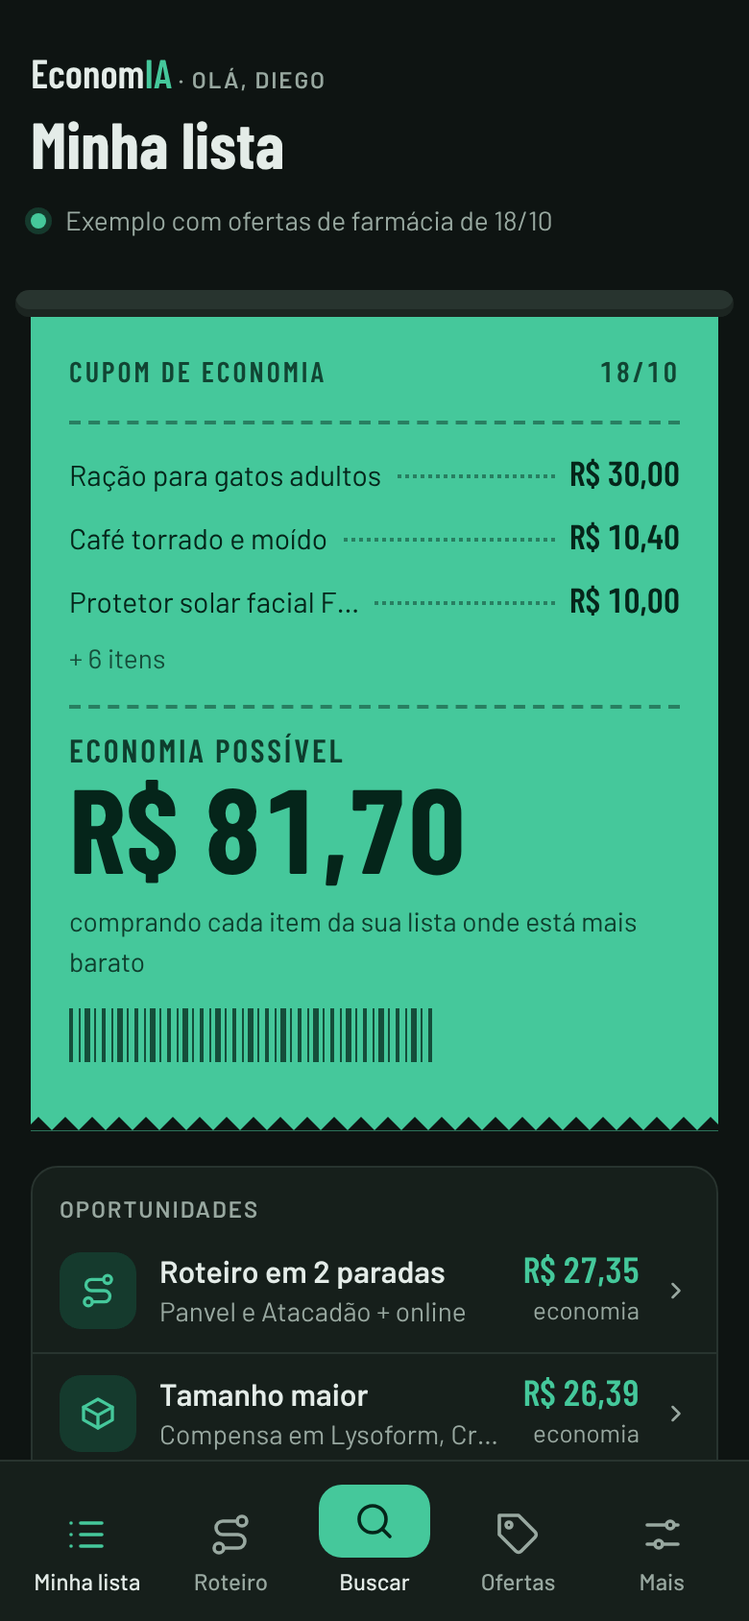
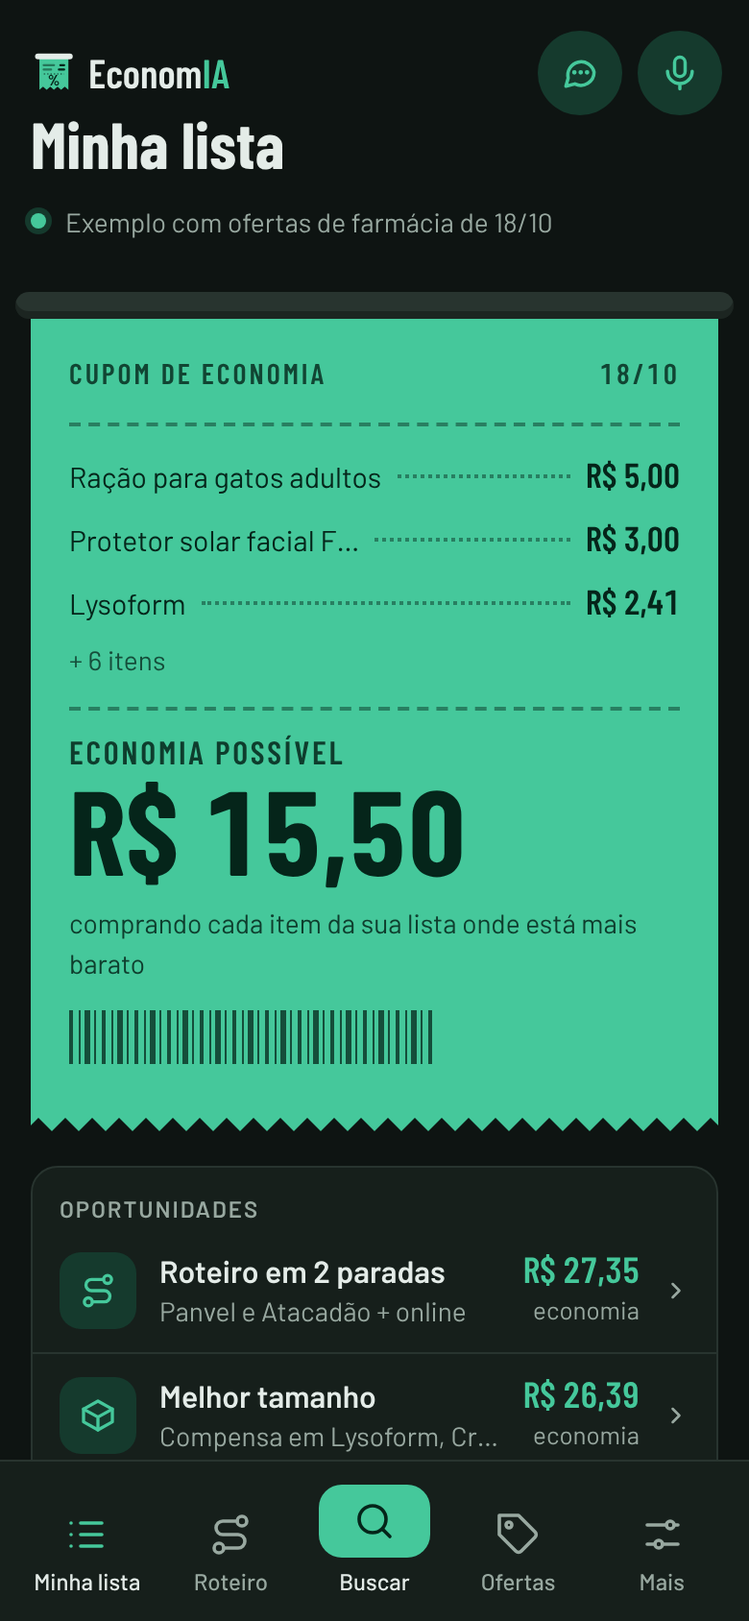
EconomIA: README, manual e prints atualizados
- README: "O que tem" com as funções novas (código de barras, Quis dizer,
  histórico, sua escolha e similares, Testar agora, Conversa, integrações
  opcionais), menu certo da IA, estrutura com a fonte da página, tests/ e
  tools/, e uma seção só de desenvolvimento.
- DOCS: Usar IA não desliga o Buscar; passo a passo da busca igual ao de
  Mais › Lojas; seções Lojas (abas, de onde vem o preço, sem localização,
  loja que não apareceu) e Brave Search; Buscar este item e Procurar.
- docs/*.png refeitos com a tela de hoje (tools/prints_readme.py, com o
  exemplo embutido, sem nome de ninguém).

Claude-Session: https://claude.ai/code/session_019b4houP2YyLE6hAAt79Mdj

diff --git a/tools/prints_readme.py b/tools/prints_readme.py
@@ -1,0 +1,105 @@
+#!/usr/bin/env python3
+"""Refaz as imagens do README (docs/inicio.png, lista.png, roteiro.png e ofertas.png).
+
+Abre a página do add-on (economia/app/www/index.html) num servidor local em porta livre, sem o add-on: ela roda com
+o exemplo embutido (nenhum dado pessoal). O relógio fica parado no dia do exemplo (18/10, 10h) e o aviso "Exemplo"
+some da tela. Celular de 390 x 844 com densidade 2 (PNG de 780 x 1688), tema escuro.
+
+    python3 tools/prints_readme.py           grava em docs/
+    python3 tools/prints_readme.py /tmp/x    grava em outra pasta (para conferir antes)
+
+Precisa do Playwright: pip install playwright && python3 -m playwright install chromium
+"""
+import datetime
+import functools
+import http.server
+import os
+import struct
+import sys
+import threading
+
+from playwright.sync_api import sync_playwright
+
+RAIZ = os.path.dirname(os.path.dirname(os.path.abspath(__file__)))
+WWW = os.path.join(RAIZ, "economia", "app", "www")
+DIA_DO_EXEMPLO = datetime.datetime(2026, 10, 18, 10, 0, tzinfo=datetime.timezone(datetime.timedelta(hours=-3)))
+LARGURA, ALTURA, DENSIDADE = 390, 844, 2
+
+
+class Pagina(http.server.SimpleHTTPRequestHandler):
+    def log_message(self, *a):
+        pass
+
+
+def calma(pg):
+    """Espera as animações (o cupom saindo da impressora, a troca de tela) terminarem."""
+    pg.wait_for_function("document.getAnimations().every(a => a.playState !== 'running'"
+                         " || (a.effect && a.effect.getTiming().iterations === Infinity))", timeout=15000)
+    pg.wait_for_timeout(300)
+
+
+def rola_ate(pg, seletor, folga=12):
+    y = pg.locator(seletor).first.evaluate("e => e.getBoundingClientRect().top + scrollY")
+    pg.evaluate("y => scrollTo(0, y)", max(0, y - folga))
+    calma(pg)
+
+
+def tamanho_png(caminho):
+    with open(caminho, "rb") as f:
+        cab = f.read(24)
+    return struct.unpack(">II", cab[16:24])
+
+
+def main():
+    saida = os.path.abspath(sys.argv[1]) if len(sys.argv) > 1 else os.path.join(RAIZ, "docs")
+    os.makedirs(saida, exist_ok=True)
+    srv = http.server.ThreadingHTTPServer(("127.0.0.1", 0), functools.partial(Pagina, directory=WWW))
+    threading.Thread(target=srv.serve_forever, daemon=True).start()
+    url = f"http://127.0.0.1:{srv.server_address[1]}/index.html"
+    erros = []
+    with sync_playwright() as p:
+        nav = p.chromium.launch()
+        ctx = nav.new_context(viewport={"width": LARGURA, "height": ALTURA}, device_scale_factor=DENSIDADE,
+                              color_scheme="dark", has_touch=True, locale="pt-BR", timezone_id="America/Sao_Paulo")
+        pg = ctx.new_page()
+        pg.on("pageerror", lambda e: erros.append(str(e)))
+        pg.clock.set_fixed_time(DIA_DO_EXEMPLO)
+        pg.goto(url)
+        pg.wait_for_function("document.getElementById('syncText').textContent.indexOf('Carregando') < 0")
+        pg.add_style_tag(content="#banner{display:none!important}")
+        calma(pg)
+
+        def foto(nome):
+            caminho = os.path.join(saida, nome + ".png")
+            pg.screenshot(path=caminho)
+            if tamanho_png(caminho) != (LARGURA * DENSIDADE, ALTURA * DENSIDADE):
+                erros.append(f"{nome}.png com tamanho {tamanho_png(caminho)}")
+            print("ok", caminho)
+
+        # Minha lista, no alto: o cupom de economia e as oportunidades
+        foto("inicio")
+        # um item da lista: a melhor compra, os outros preços com o ✓ e as ações
+        lyso = pg.locator("#wish > li", has_text="Lysoform").first
+        lyso.wait_for()
+        rola_ate(pg, "#wish > li:has-text('Lysoform')")
+        foto("lista")
+        # Roteiro: paradas, total e o que comprar em cada loja
+        pg.click(".tabbar [data-view=roteiro]")
+        calma(pg)
+        rola_ate(pg, "#v-roteiro .sec-meta", folga=8)
+        foto("roteiro")
+        # Ofertas dos mercados perto de casa
+        pg.click(".tabbar [data-view=ofertas]")
+        calma(pg)
+        pg.locator("#cats button", has_text="Mercados").click()
+        calma(pg)
+        rola_ate(pg, "#v-ofertas .panel:has(#h-ofertas)")
+        foto("ofertas")
+        nav.close()
+    srv.shutdown()
+    if erros:
+        raise SystemExit("Erros na página: " + "; ".join(erros))
+
+
+if __name__ == "__main__":
+    main()

diff --git a/economia/DOCS.md b/economia/DOCS.md
@@ -4,7 +4,7 @@ Cupons, ofertas e a sua lista de compras nas farmácias, mercados e pet shops pe
 
 ## Antes de começar
 
-O EconomIA usa a IA do próprio Home Assistant (Anthropic Claude, OpenAI, Google Gemini...). Escolha qual usar em **Mais › Integrações › IA do Home Assistant** e toque em **Verificar de novo** para testar. A chave **Usar IA**, no mesmo lugar, desliga tudo o que usa IA (Buscar, leitura de fotos e mensagens, cupons por print e Falar), para todos os aparelhos.
+O EconomIA usa a IA do próprio Home Assistant (Anthropic Claude, OpenAI, Google Gemini...). Escolha qual usar em **Mais › Integrações › IA do Home Assistant** e toque em **Verificar de novo** para testar. A chave **Usar IA**, no mesmo lugar, desliga tudo o que usa IA (leitura de fotos e mensagens, cupons e encartes por print, Falar e Conversa), para todos os aparelhos. O **Buscar** continua, só com o que não gasta IA.
 
 - **Para buscar ofertas**, a IA precisa de busca na web:
   - **Anthropic**: ligue a busca na web nas opções da tarefa de IA.
@@ -15,14 +15,14 @@ O EconomIA usa a IA do próprio Home Assistant (Anthropic Claude, OpenAI, Google
 
 1. Abra **EconomIA** no menu lateral do Home Assistant.
 2. Em **Mais › Casa**, preencha o CEP e a distância e toque em **Encontrar lojas**: o app registra as lojas perto de casa pelo mapa e testa, sem IA, se dá para tirar preço de cada uma (em Mais › Lojas, cada loja mostra o resultado e o passo a passo em "Como foi testado", com **Testar agora** para testar de novo só aquela, inclusive as online; **Só sem fonte de preço** mostra só as que faltam). Preencha também quem mora na casa (incluindo quantos pets), restrições, interesses e os dias em que você costuma comprar.
-3. Em **Minha lista**, adicione o que você compra sempre, pelo campo do topo, por **Escolher fotos**, por **Colar mensagem** ou por **Falar**. Toque em **Comprei hoje** quando comprar: o painel aprende de quanto em quanto tempo cada coisa acaba. Em cada item, o ✓ ao lado de uma loja ou de um tamanho fixa **Sua escolha** (mesmo que não seja a mais barata), que vale também no Roteiro. A "economia de" de cada item é em relação à segunda loja mais barata. **Limpar lista** tira tudo da lista, com opção de desfazer. O que sai da lista (por remover ou limpar) fica no **Histórico**, o botão ao lado do Adicionar: do que você mais compra para o que menos compra, e um toque põe de volta com as compras de antes. Escrever no campo filtra o histórico.
-4. Toque em **Buscar**, no centro do menu de baixo. A busca leva alguns minutos e você pode continuar usando o painel.
+3. Em **Minha lista**, adicione o que você compra sempre, pelo campo do topo, pelo **código de barras**, por **Escolher fotos**, por **Colar mensagem** ou por **Falar**. Toque em **Comprei hoje** quando comprar: o painel aprende de quanto em quanto tempo cada coisa acaba. Em cada item, o ✓ ao lado de uma loja ou de um tamanho fixa **Sua escolha** (mesmo que não seja a mais barata), que vale também no Roteiro. A "economia de" de cada item é em relação à segunda loja mais barata. Toque num preço para abrir o produto na loja (sem link, o botão **Procurar** abre a busca da loja). **Limpar lista** tira tudo da lista, com opção de desfazer. O que sai da lista (por remover ou limpar) fica no **Histórico**, o botão ao lado do Adicionar: do que você mais compra para o que menos compra, e um toque põe de volta com as compras de antes. Escrever no campo filtra o histórico.
+4. Toque em **Buscar**, no centro do menu de baixo. A busca leva alguns minutos e você pode continuar usando o painel. Item que ficou sem preço tem **Buscar este item**, que procura só ele.
 5. Em **Ofertas**, use **Não mostrar** em qualquer oferta que não faça sentido para você. Cada oferta tem um link para a fonte.
-6. Em **Mais › Lojas**, desmarque as que não quer acompanhar ou adicione uma que não apareceu.
+6. Em **Mais › Lojas**, desmarque as que não quer acompanhar ou adicione uma que não apareceu (veja **Lojas**, abaixo).
 
 ## Mais, em abas
 
-Como nos outros apps (InventarIA, GerencIA, ResolvIA e CronologIA), **Mais** tem abas presas no alto: **Casa** (CEP, quem mora, rotina, restrições, interesses e o que nunca mostrar), **Lojas** (lojas perto de casa, com o clube de cada uma e o Encontrar lojas, cupons do app e compras online), **Integrações** (IA do Home Assistant, Usar IA, Falar, Uso da IA, Lista do Home Assistant e Sensores no Home Assistant), **Dados** (Exportar, Importar, Versões anteriores e onde ficam os dados), **Aparência** (tema e cor do app) e **Opções** (as etapas extras da busca).
+Como nos outros apps (InventarIA, GerencIA, ResolvIA e CronologIA), **Mais** tem abas presas no alto: **Casa** (CEP, quem mora, rotina, restrições, interesses e o que nunca mostrar), **Lojas** (lojas perto de casa, com o clube de cada uma, Encontrar lojas e Testar agora; cupons do app; compras online; e como o EconomIA busca os preços), **Integrações** (IA do Home Assistant, com Usar IA e Para falar; Shopee Afiliados, Google Places, Brave Search, Mercado Livre e Instagram; Uso da IA, Lista do Home Assistant e Sensores no Home Assistant), **Dados** (Exportar, Importar, Versões anteriores e onde ficam os dados), **Aparência** (tema e cor do app) e **Opções** (as etapas da busca que dá para desligar).
 
 ## Falar
 
@@ -94,7 +94,7 @@ Toque em **Similares** no item para ver até 3 produtos parecidos, da mesma seç
 
 Em **Mais › Lojas**:
 
-- Em Mais › Lojas, cada loja tem o botão do clube: o nome do clube quando o EconomIA conhece (como Amigo Giassi), **Tem clube** quando a busca achou um, ou **Adicionar clube**. Toque nele nas lojas em que você é cadastrado (quase sempre é só o CPF no caixa) e ele vira **Sou do clube**. O preço de clube dessas lojas passa a valer na lista, no roteiro e nas ofertas, e a busca com IA procura o preço de membro delas. Nas outras, o preço de clube aparece marcado e o EconomIA avisa quando valeria a pena entrar no clube. Clube só de pontos ou cartão (como o Clube Angeloni) não muda o preço da prateleira e não aparece. O preço de clube chega pela IA (busca, encarte ou print dos cupons): com a IA desligada, a tela avisa.
+- Cada loja tem o botão do clube: o nome do clube quando o EconomIA conhece (como Amigo Giassi), **Tem clube** quando a busca achou um, ou **Adicionar clube**. Toque nele nas lojas em que você é cadastrado (quase sempre é só o CPF no caixa) e ele vira **Sou do clube**. O preço de clube dessas lojas passa a valer na lista, no roteiro e nas ofertas, e a busca com IA procura o preço de membro delas. Nas outras, o preço de clube aparece marcado e o EconomIA avisa quando valeria a pena entrar no clube. Clube só de pontos ou cartão (como o Clube Angeloni) não muda o preço da prateleira e não aparece. O preço de clube chega pela IA (busca, encarte ou print dos cupons): com a IA desligada, a tela avisa.
 - Em **Cupons do app**, escolha prints da carteira de cupons do app da loja (Bem Panvel, Raia, Meu Atacadão...) e toque em **Digitalizar com IA**. Confira a loja de cada cupom e guarde: eles aparecem em Ofertas como **Seu cupom** e na abertura quando estiverem perto de vencer.
 
 O EconomIA não entra na sua conta das lojas: esses apps não têm acesso aberto e pedem código por SMS.
@@ -103,9 +103,9 @@ O EconomIA não entra na sua conta das lojas: esses apps não têm acesso aberto
 
 A busca na web lê texto; muitos mercados do bairro publicam as ofertas como **imagem de encarte** no site. Por isso:
 
-- A busca procura também mercadinhos e lojas independentes do raio. Se achar o site de uma loja sem nenhum preço, o EconomIA abre o site, baixa o encarte e a IA de fotos lê os preços (até 2 lojas por busca).
+- A busca procura também mercadinhos e lojas independentes perto de casa. Se achar o site de uma loja sem nenhum preço, o EconomIA abre o site, baixa o encarte e a IA de fotos lê os preços (até 2 lojas por busca).
 - Loja que continua sem preço aparece com o selo **Sem preços** em Mais › Lojas e um aviso nas Ofertas. Toque em **Adicionar site de ofertas** e cole o endereço da página do encarte (por exemplo `mercadosalles.com.br/ofertas`): a partir da próxima busca, o encarte é lido sempre.
-- Também dá para informar o site ao **Adicionar loja**.
+- Também dá para informar o site ao adicionar uma loja que não apareceu, no fim de Mais › Lojas.
 - Mercado sem site de ofertas (Koch, Komprão, Atacadão): nas Ofertas, toque em **Encarte ou print de preços**, escolha as fotos ou prints do encarte (até 8: do WhatsApp, do Tiendeo, do app da loja ou da gôndola), diga de qual loja é e toque em **Ler com IA**. Os preços valem até a próxima busca.
 
 As ofertas de encarte aparecem com o rótulo "Encarte" e a validade, e os preços entram na comparação da lista e no roteiro.
@@ -114,13 +114,17 @@ As ofertas de encarte aparecem com o rótulo "Encarte" e a validade, e os preço
 
 A busca começa pelo que não gasta IA e só chama a IA para o que faltar (o passo a passo também está no fim de Mais › Lojas):
 
-1. **Lojas do raio, pelo mapa.** A localização da zona Casa do Home Assistant e o OpenStreetMap dizem quais farmácias, mercados e pet shops existem no raio, com endereço e distância certos (de rede, a filial mais perto). Com uma chave do Google Places em Mais › Integrações, entra também o Google Maps, que tem as lojas pequenas e o site de cada uma. Loja pequena cujo site mostra os produtos com preço na própria página tem o preço lido dessa página, sem IA. Atualiza uma vez por semana e quando você toca em Encontrar lojas.
-2. **Site das lojas.** O site de cada mercado cadastrado ou achado na busca é testado uma vez por semana. Se a loja usa VTEX e o robots.txt permite, o preço vem direto da loja que atende o seu CEP (Giassi, Angeloni e outros). Se o site não deixa programas usarem a busca, mas libera as páginas de produto (como o Bistek), o EconomIA baixa uma vez por dia a lista de produtos que a loja publica, acha os itens da sua lista pelo nome e lê o preço na página de cada produto. Esse é o preço padrão do site, que pode variar de loja para loja. O EconomIA não dribla bloqueio de site.
-3. **Shopee**, pela Open API do Shopee Afiliados, se você ligou em Mais › Integrações.
-4. **Folheto da semana** das lojas que você acompanha e que não têm preço pelo site (veja abaixo).
-5. **IA**: busca na web com a lista de lojas do mapa, para ofertas, cupons e os preços que faltam, avisada das lojas que já têm preço.
+1. **Lojas perto de casa, pelo mapa.** A localização da zona Casa do Home Assistant e o OpenStreetMap dizem quais farmácias, mercados e pet shops existem perto, com endereço e distância certos (de rede, a filial mais perto). Com uma chave do Google Places em Mais › Integrações, entra também o Google Maps, que tem as lojas pequenas e o site de cada uma. Atualiza uma vez por semana e quando você toca em Encontrar lojas.
+2. **Site das lojas sem site.** Pelo Brave Search (com chave, em Mais › Integrações) e, com a IA ligada, pela busca na web da IA. Uma vez por mês.
+3. **Site da loja.** O site de cada loja cadastrada ou achada na busca é testado uma vez por semana. Se a loja usa VTEX e o robots.txt permite, o preço vem direto da loja que atende o seu CEP (Giassi, Angeloni e outros).
+4. **Busca do site.** A página de resultados da busca da própria loja, como a da Cobasi.
+5. **Páginas de produto.** Se o site não deixa programas usarem a busca, mas libera as páginas de produto (como o Bistek), o EconomIA baixa uma vez por dia a lista de produtos que a loja publica, acha os itens da sua lista pelo nome e lê o preço na página de cada produto. Esse é o preço padrão do site, que pode variar de loja para loja.
+6. **Página de ofertas do site.** Loja pequena que mostra os produtos com preço na própria página (como a Drogaria Floresta) tem o preço lido dali, no máximo a cada 12 horas.
+7. **Shopee**, pela Open API do Shopee Afiliados, se você ligou em Mais › Integrações.
+8. **Folheto da semana** e **Instagram** das lojas que você acompanha e que não têm preço pelo site (veja abaixo). A IA lê cada um uma vez.
+9. **IA**: busca na web com a lista de lojas do mapa, para ofertas, cupons, marketplaces e os preços que faltam, avisada das lojas que já têm preço. Depois, o encarte do site das lojas que você cadastrou e uma última pergunta só sobre os itens sem preço.
 
-Com a IA desligada, o Buscar faz só os passos 2 a 4, com os folhetos já lidos.
+Com a IA desligada, o Buscar faz só o que não usa IA e aproveita os folhetos já lidos. O EconomIA respeita o robots.txt de cada site e não dribla bloqueio.
 
 ## Folhetos de encarte
 
@@ -133,7 +137,7 @@ Muito mercado do bairro posta o encarte da semana só no Instagram. Com a integr
 O que precisa, uma vez:
 
 1. **Conta profissional no Instagram.** No app do Instagram: perfil › ☰ › Tipo de conta e ferramentas › Mudar para conta profissional › Criador (ou Empresa). Pode ser a sua conta ou uma conta nova só para isso.
-2. **Página no Facebook ligada a ela.** No Facebook, crie uma página (pode ser vazia, por exemplo "EconomIA de Diego"). Nas configurações da página, em Contas vinculadas › Instagram, conecte a conta do passo 1.
+2. **Página no Facebook ligada a ela.** No Facebook, crie uma página (pode ser vazia, por exemplo "EconomIA da Ana"). Nas configurações da página, em Contas vinculadas › Instagram, conecte a conta do passo 1.
 3. **App da Meta.** Em developers.facebook.com › Meus apps › Criar app, escolha o uso "Outro" e o tipo "Empresa". O app fica em modo de desenvolvimento, só para você; não precisa de análise da Meta.
 4. **Chave de acesso.** No Explorador da Graph API (developers.facebook.com/tools/explorer), escolha o app, peça um token de usuário com as permissões `pages_show_list`, `pages_read_engagement`, `instagram_basic`, `instagram_manage_insights` e `business_management`, toque em Gerar e marque a página e a conta do Instagram.
 5. **Chave que dura.** A chave do Explorador vale umas horas. No Depurador de token (developers.facebook.com/tools/debug/accesstoken), cole a chave e toque em "Estender token de acesso": ela passa a valer 60 dias. Para uma chave que não vence, crie um usuário do sistema em business.facebook.com › Configurações do negócio › Usuários do sistema, dê a ele a página e a conta do Instagram, e gere a chave com validade "Nunca" e as mesmas permissões, mais `ads_read` (a Meta pede essa a mais quando a página foi dada pelo Gerenciador de Negócios).
@@ -145,9 +149,18 @@ O Instagram de cada loja vem do mapa ou de você: em Mais › Lojas, toque em Ad
 
 O OpenStreetMap é gratuito, mas pode não ter as lojas pequenas do bairro. Em **Mais › Integrações › Google Places**, cole uma chave da Places API (New), criada em console.cloud.google.com › APIs e serviços. O Google pede cartão cadastrado e dá uma cota gratuita por mês; o EconomIA consulta uma vez por semana e quando você toca em Encontrar lojas: as lojas mais perto de cada tipo, a busca por "farmácia", "supermercado"… e o site das lojas que vieram sem site (guardado por 30 dias). São algumas dezenas de pedidos por vez, o que cabe na cota gratuita no uso normal. A chave fica em `segredos.json`.
 
-## Lojas inativas
+## Brave Search (opcional)
 
-Em **Mais › Lojas**, desmarque a loja que não quer acompanhar: ela vai para **Inativas**, um bloco fechado no fim de cada grupo, e sai das ofertas, do roteiro e da procura de folhetos.
+Acha o site das lojas que o mapa trouxe sem site, sem IA: o EconomIA busca "nome da loja + cidade" e fica com o primeiro resultado que é o site da própria loja (pula redes sociais, guias, marketplaces e sites de encartes). O site achado é testado na hora. Em **Mais › Integrações › Brave Search**, cole uma chave grátis (2.000 buscas por mês), criada em api-dashboard.search.brave.com, e toque em **Salvar e testar**. O app faz uma busca por segundo, só para as lojas sem site, e guarda a resposta por 30 dias. Com a IA ligada, ela procura só as lojas que o Brave não achou. A chave fica em `segredos.json`.
+
+## Lojas
+
+Em **Mais › Lojas**, as lojas ficam em abas: **Farmácias**, **Mercados**, **Pet shops** e **Online**. **Procurar loja na lista** acha uma loja pelo nome em todas as abas, também nas Inativas.
+
+- **De onde vem o preço:** o **Encontrar lojas** testa, sem IA, cada loja que você acompanha, e ela mostra o resultado: **Preço pelo site**, **Preço pela busca do site**, **Preço pelas páginas do site**, **Preço pela página do site**, **Folheto da semana**, **Encarte do Instagram**, **Só com IA** ou **Sem fonte de preço**, com um exemplo. **Como foi testado** mostra o passo a passo, com ✓ e ✗. **Testar agora** testa de novo só aquela loja, sem o que ficou guardado. **Só sem fonte de preço** mostra só as que faltam.
+- **Inativas:** desmarque a loja que não quer acompanhar. Ela vai para um bloco fechado no fim de cada grupo e sai das ofertas, do roteiro e da procura de folhetos. Dá para testar e marcar de novo.
+- **Sem localização:** loja sem endereço no mapa (adicionada à mão ou que veio só de um site, como a Cobasi) fica em Online e conta como loja online. Com a chave do Google, o Encontrar lojas procura onde ela fica (a filial mais perto, até 20 km).
+- **Loja que não apareceu:** no fim da lista, escreva o nome, escolha o tipo e, se quiser, o site de ofertas, e toque em **Adicionar**.
 
 ## Mercado Livre: categorias (opcional)
 

diff --git a/README.md b/README.md
@@ -5,7 +5,7 @@
 Um App do Home Assistant para **economizar nas compras da casa**: uma **lista de compras única** comparada nas **farmácias, mercados e pet shops perto do seu CEP** e no **online** (iFood, Mercado Livre, Amazon e outros), com o **melhor tamanho** de cada produto, um **roteiro** de onde comprar cada item e **leitura por IA** de encartes, prints e mensagens do WhatsApp.
 
 <p align="center">
-  <img src="docs/inicio.png" width="24%" alt="Início com o cupom de economia">
+  <img src="docs/inicio.png" width="24%" alt="Minha lista com o cupom de economia">
   <img src="docs/lista.png" width="24%" alt="Item da lista com a melhor compra">
   <img src="docs/roteiro.png" width="24%" alt="Roteiro de compras em 2 paradas">
   <img src="docs/ofertas.png" width="24%" alt="Ofertas dos mercados perto de casa">
@@ -27,25 +27,30 @@ Ou adicione o repositório direto pelo botão:
 
 A primeira instalação leva alguns minutos, porque o app é montado no próprio Home Assistant. Depois, as atualizações aparecem sozinhas, com o botão **Atualizar**.
 
-Para buscar ofertas, o app usa a IA do seu Home Assistant (Anthropic, OpenAI, Google Gemini...) com busca na web; para ler fotos, uma tarefa de IA que aceite imagens. Escolha e teste em **Mais → IA do Home Assistant**.
+A busca começa pelo que não gasta IA (os sites das lojas, os folhetos e a Shopee). Para o resto, o app usa a IA do seu Home Assistant (Anthropic, OpenAI, Google Gemini...) com busca na web; para ler fotos, uma tarefa de IA que aceite imagens. Escolha e teste em **Mais → Integrações → IA do Home Assistant**.
 
 ## O que tem
 
-- **Início** com um cupom fiscal saindo da impressora: quanto dá para economizar na sua lista e os itens que mais economizam, além das oportunidades do dia.
-- **Minha lista** única para farmácias, mercados, pet shops e online, com o ritmo de compra de cada item ("deve acabar em 6 dias").
+- **Cupom de economia** saindo da impressora, no alto da Minha lista: quanto dá para economizar na sua lista e os itens que mais economizam, além das oportunidades do dia.
+- **Minha lista** única para farmácias, mercados, pet shops e online, com um ícone por item e o ritmo de compra de cada um ("deve acabar em 6 dias"). O **Histórico** põe de volta, com um toque, o que já esteve na lista.
+- **Código de barras**: foto ou números do código, e o produto entra na lista; o mesmo produto é achado nas lojas mesmo com outro nome.
+- **"Quis dizer…?"**: corrige o nome escrito errado pelas palavras dos produtos das lojas.
 - **Melhor tamanho**: compara o preço por litro, quilo ou unidade (1 L, galão de 5 L, 5 × 1 L, kits online com frete) e diz quanto tempo dura no seu ritmo.
+- **Sua escolha e similares**: o ✓ fixa a loja ou o tamanho que você prefere, mesmo que não seja o mais barato, e **Similares** mostra até 3 produtos parecidos mais em conta pelo preço do quilo ou do litro.
 - **Roteiro de compras**: diga em até quantas lojas topa parar e o app testa as combinações, mostra onde comprar cada item, a ordem e a rota no Maps.
-- **Lojas do raio pelo mapa**: a zona Casa do Home Assistant e o OpenStreetMap (e o Google Maps, com chave) dizem quais lojas existem perto, com a distância certa.
-- **Primeiro o que não gasta IA**: preço direto no site dos mercados que permitem (Giassi, Angeloni e outros testados sozinhos), páginas de produto de sites como o do Bistek, Shopee pela API de afiliados e folhetos do Kimbino, Portafolhetos, Seus Folhetos e Catálogos Ofertas lidos uma vez por semana. A IA entra por último.
+- **Lojas perto de casa pelo mapa**: a zona Casa do Home Assistant e o OpenStreetMap (e o Google Maps, com chave) dizem quais lojas existem perto, com a distância certa. **Encontrar lojas** e **Testar agora** mostram de onde sai o preço de cada loja, com o passo a passo em "Como foi testado".
+- **Primeiro o que não gasta IA**: preço direto no site dos mercados que permitem (Giassi, Angeloni e outros testados sozinhos), a busca e as páginas de produto do site (Cobasi, Bistek), a página de ofertas das lojas pequenas, a Shopee pela API de afiliados e o folheto da semana (Kimbino, Portafolhetos, Seus Folhetos e Catálogos Ofertas) ou o encarte do Instagram, lidos uma vez pela IA. A busca na web com IA entra por último, só para o que faltou.
 - **Ofertas e cupons** das lojas perto do seu CEP, com o motivo de cada destaque e o botão "Não mostrar".
-- **Encartes dos sites**: abre a página de ofertas do mercado do bairro, lê o encarte (imagem ou PDF) com IA e traz os preços. Loja sem preço aparece marcada, com atalho para adicionar o site.
+- **Encartes dos sites**: abre a página de ofertas do mercado do bairro, lê o encarte (imagem ou PDF) com IA e traz os preços. Loja sem preço aparece marcada, com atalho para adicionar o site ou mandar o encarte por foto.
 - **Online**: iFood, Rappi, Mercado Livre, Amazon e outros, com frete ou taxa de entrega somados e as assinaturas (Prime, Meli+, Clube iFood), e os mercados da região que entregam no seu CEP, separados.
-- **Clubes**: marque "Sou do clube" e o preço de clube entra nas contas. Cupons da carteira do app entram por print.
+- **Clubes**: toque em "Sou do clube" na loja e o preço de clube entra nas contas. Cupons da carteira do app entram por print.
 - **Leitura por IA**: prints, lista escrita à mão ou mensagem do WhatsApp viram itens da lista. Você confere antes de adicionar.
 - **Falar**: o microfone no alto da tela; o Home Assistant transcreve e a IA separa os itens para você conferir.
-- **No computador**: barra lateral com as telas e as ofertas por tipo de loja, e as ações no alto à direita.
+- **Conversa com a IA**: o balão ao lado do microfone. Pergunte sobre a tela aberta ou sobre qualquer assunto; a IA vê a sua lista, os preços e as ofertas e só sugere (pôr na lista, buscar o preço, abrir uma tela), e nada muda sem o seu toque.
+- **No celular e no computador**: arraste para o lado para trocar de aba; no computador, barra lateral com as telas e as ofertas por tipo de loja, e as ações no alto à direita.
 - **Lista por voz**: sincroniza com a lista de compras do Home Assistant (Assist, Alexa, Google Tasks).
-- **Uso da IA**: quantas chamadas a busca e a leitura de fotos fizeram por dia, erros de cota e tokens estimados, com o sensor `sensor.economia_ia_hoje` para painel e automação.
+- **Integrações opcionais**: Google Places (as lojas pequenas), Brave Search (o site das lojas sem site), Mercado Livre (confere a categoria do produto), Instagram das lojas e Shopee Afiliados. As chaves ficam só no Home Assistant.
+- **Uso da IA**: quantas chamadas a busca, a leitura de fotos, o Falar e a Conversa fizeram por dia, erros de cota e tokens estimados, com o sensor `sensor.economia_ia_hoje` para painel e automação.
 - **Perfil da casa**: quem mora, pets, restrições e interesses decidem o que aparece.
 - **Mais em abas** (Casa, Lojas, Integrações, Dados, Aparência e Opções), com **Usar IA**, sensores opcionais, versões anteriores, exportação para Excel e JSON, tema claro ou escuro e 10 cores.
 
@@ -58,29 +63,30 @@ Sua lista, perfil e ofertas ficam só no seu Home Assistant, em arquivos abertos
 ## Estrutura
 
 ```
-repository.yaml          repositório de apps
-economia/                o app (config, Dockerfile, ícone, documentação)
-economia/app/server.py   servidor, busca e leitura por IA (só biblioteca padrão do Python)
-economia/app/voz.py      Falar: fala para texto do Home Assistant (o mesmo módulo do GerencIA)
-economia/app/www/        interface (HTML, CSS e JavaScript num arquivo só, sem etapa de build) e fontes
-docs/                    imagens deste README e detalhes técnicos
+repository.yaml               repositório de apps
+economia/                     o app (config, Dockerfile, ícone, manual e mudanças)
+economia/app/server.py        servidor, busca e leitura por IA (só biblioteca padrão do Python)
+economia/app/voz.py           Falar: fala para texto do Home Assistant (o mesmo módulo do GerencIA)
+economia/pagina/painel.html   fonte da página (HTML, CSS e JavaScript num arquivo só, sem framework)
+economia/app/www/             a página do add-on, montada da fonte, e as fontes
+tests/                        testes unitários, de integração e visuais (veja tests/README.md)
+tools/                        montar a página, cobertura dos testes e as imagens deste README
+docs/                         imagens deste README e detalhes técnicos
 ```
 
 ## Desenvolvimento
 
 ```bash
-cd economia/app
-OFERTAS_ALLOW_ALL=1 OFERTAS_DATA=./.data OFERTAS_MEDIA=./.media OFERTAS_PORT=8099 \
-  python3 server.py                                  # abre em http://127.0.0.1:8099
+OFERTAS_ALLOW_ALL=1 OFERTAS_DATA=/tmp/economia OFERTAS_PORT=8099 \
+  python3 economia/app/server.py                       # abre em http://127.0.0.1:8099
+python3 tools/montar_pagina.py                         # depois de mexer em economia/pagina/painel.html
+python3 -m unittest discover -s tests -p "test_*.py"   # testes unitários e de integração
+tests/e2e/run.sh                                       # testes visuais (Playwright)
+python3 tools/prints_readme.py                         # refaz as imagens deste README
 ```
 
-Sem `ofertas.json`, a página mostra um exemplo embutido. `OFERTAS_HA_API` aponta para uma API do Home Assistant de teste e `SUPERVISOR_TOKEN` define a chave. Rotas e formato dos arquivos em [docs/tecnico.md](docs/tecnico.md).
+Sem `ofertas.json`, a página mostra um exemplo embutido. `OFERTAS_HA_API` aponta para uma API do Home Assistant de teste e `SUPERVISOR_TOKEN` define a chave. Rotas e formato dos arquivos em [docs/tecnico.md](docs/tecnico.md). O `AGENTS.md` explica a estrutura, como testar e como lançar uma versão (vale para qualquer pessoa ou assistente de IA). Os testes rodam no GitHub a cada push.
 
 ## Créditos
 
 Fontes [Barlow](https://fonts.google.com/specimen/Barlow) e [Barlow Condensed](https://fonts.google.com/specimen/Barlow+Condensed) (SIL Open Font License).
-
-## Desenvolvimento
-
-O `AGENTS.md` explica a estrutura, como testar e como lançar uma versão (vale para qualquer pessoa ou assistente de IA).
-Os testes ficam em `tests/` e rodam no GitHub a cada push.

diff --git a/economia/README.md b/economia/README.md
@@ -2,17 +2,20 @@
 
 Sua lista de compras comparada nas farmácias, mercados e pet shops perto de casa e no online, com o melhor tamanho de cada produto, um roteiro de onde comprar e leitura por IA.
 
-- Início com o cupom de economia: quanto dá para economizar na sua lista
-- Uma lista só, com o ritmo de compra de cada item
+- Cupom de economia: quanto dá para economizar na sua lista
+- Uma lista só, com o ritmo de compra de cada item, o histórico e o código de barras
 - Melhor tamanho: 1 L, 5 L ou 5 × 1 L, pelo preço por litro, quilo ou unidade
+- Sua escolha em cada item e similares mais em conta
 - Roteiro de compras em até 4 paradas, com rota no Maps
-- Primeiro o que não gasta IA: site dos mercados, páginas de produto, Shopee Afiliados e folhetos do Kimbino, Portafolhetos, Seus Folhetos e Catálogos Ofertas
+- Lojas perto de casa pelo mapa, cada uma com o teste de onde sai o preço
+- Primeiro o que não gasta IA: site dos mercados, busca e páginas de produto, Shopee Afiliados e folhetos do Kimbino, Portafolhetos, Seus Folhetos e Catálogos Ofertas
 - Ofertas e cupons das lojas perto do seu CEP
-- Encartes dos sites dos mercados lidos com IA
+- Encartes dos sites e do Instagram dos mercados lidos com IA
 - iFood, Rappi, Mercado Livre e Amazon, com frete e assinaturas, e os mercados da região que entregam
 - Preço de clube e cupons do app por print
 - Itens da lista por foto, print ou mensagem do WhatsApp
 - Falar: diga os itens e a IA separa cada um
+- Conversa com a IA: ela sugere e você confirma
 - Versão para computador, com barra lateral
 - Lista por voz com a lista de compras do Home Assistant
 - Uso da IA: chamadas por dia e sensor no Home Assistant
